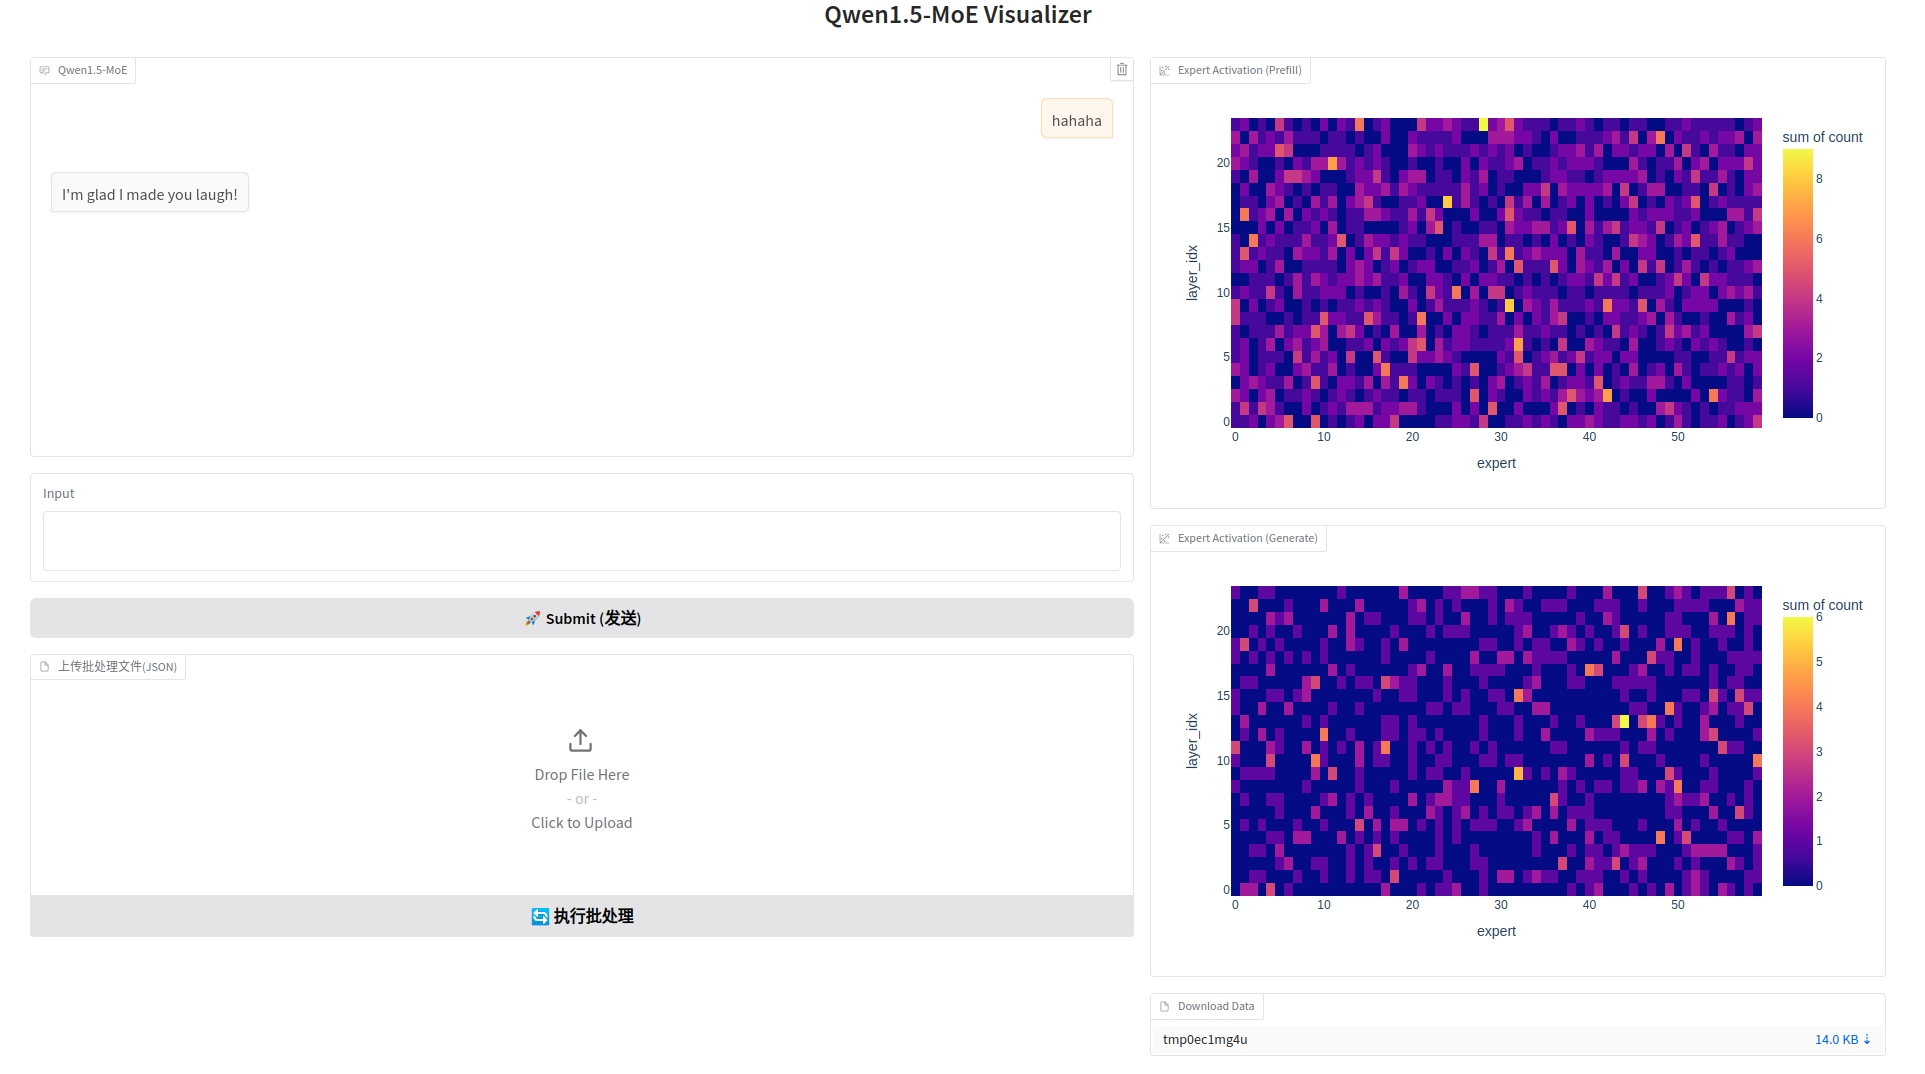
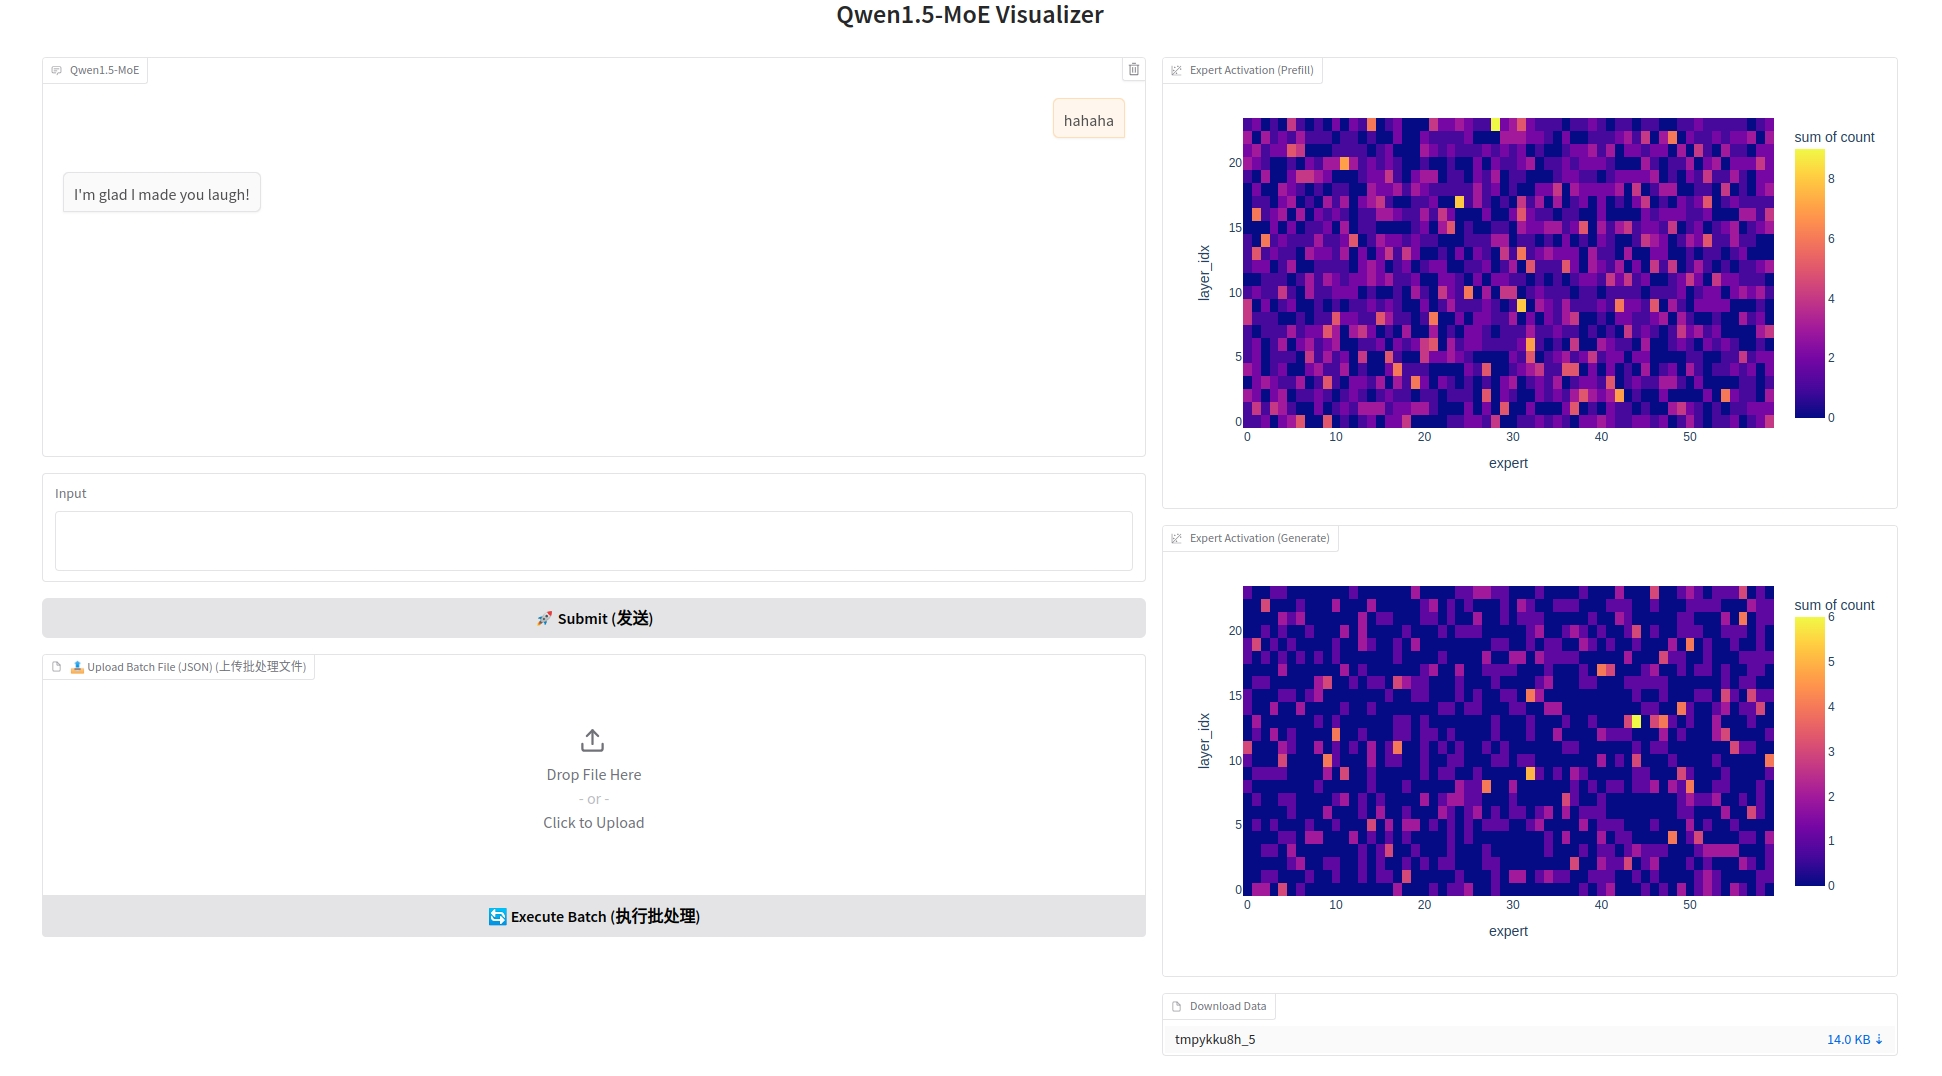
docs: update images

diff --git a/qwen1_5_moe.py b/qwen1_5_moe.py
@@ -251,8 +251,8 @@ def _launch_demo(args, model, tokenizer):
                     submit_btn = gr.Button("🚀 Submit (发送)")
 
                 with gr.Group():
-                    batch_file = gr.File(label="上传批处理文件(JSON)")
-                    batch_btn = gr.Button("🔄 执行批处理")
+                    batch_file = gr.File(label="📤 Upload Batch File (JSON) (上传批处理文件)")
+                    batch_btn = gr.Button("🔄 Execute Batch (执行批处理)")
 
             with gr.Column(scale=2):
                 prefill_plot = gr.Plot(label="Expert Activation (Prefill)")
